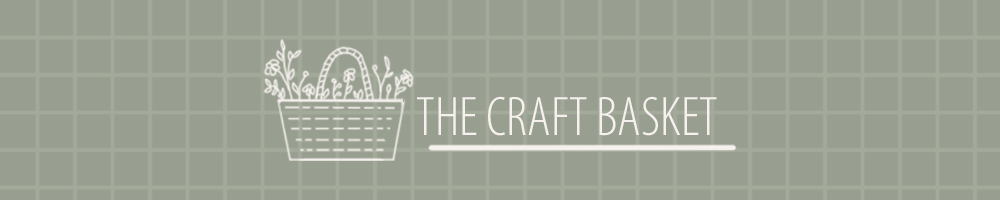
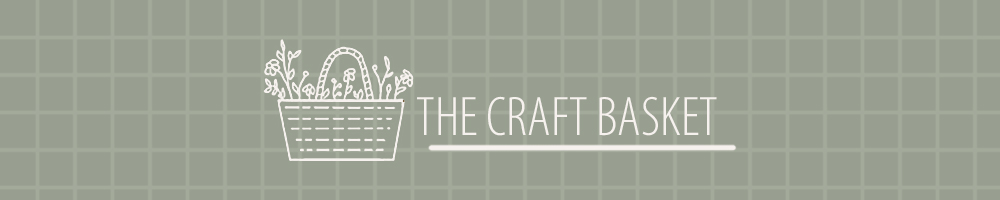
Added new pages for tag links to open to

diff --git a/main.html b/main.html
@@ -16,6 +16,15 @@
                     <div class="mini-header">
                         <p>TAGS</p>
                     </div>
+                    <ul>
+                        <li>CLAY</li>
+                        <li>PAINTING</li>
+                        <li>CARDBOARD</li>
+                        <li>PIXEL ART</li>
+                        <p>CLASSES</p>
+                        <li>TA91</li>
+                        <li>3D DESIGN</li>
+                    </ul>
                 </div>
                 <div id="art-space">
 
@@ -35,7 +44,7 @@
                     </div>
                     <p>
                         Welcome to The Craft Basket! This is my personal craft webpage where I post my creations, their inspirations, and the 
-                        journey it took to make them. Browse the basket to checkout my blogposts in a stream, navigate to specific tags, or check
+                        journey it took to make them. Browse the basket to checkout my blog posts in a stream, navigate to specific tags, or check
                         out my very latest craft in detail!
                     </p>
                 </div>